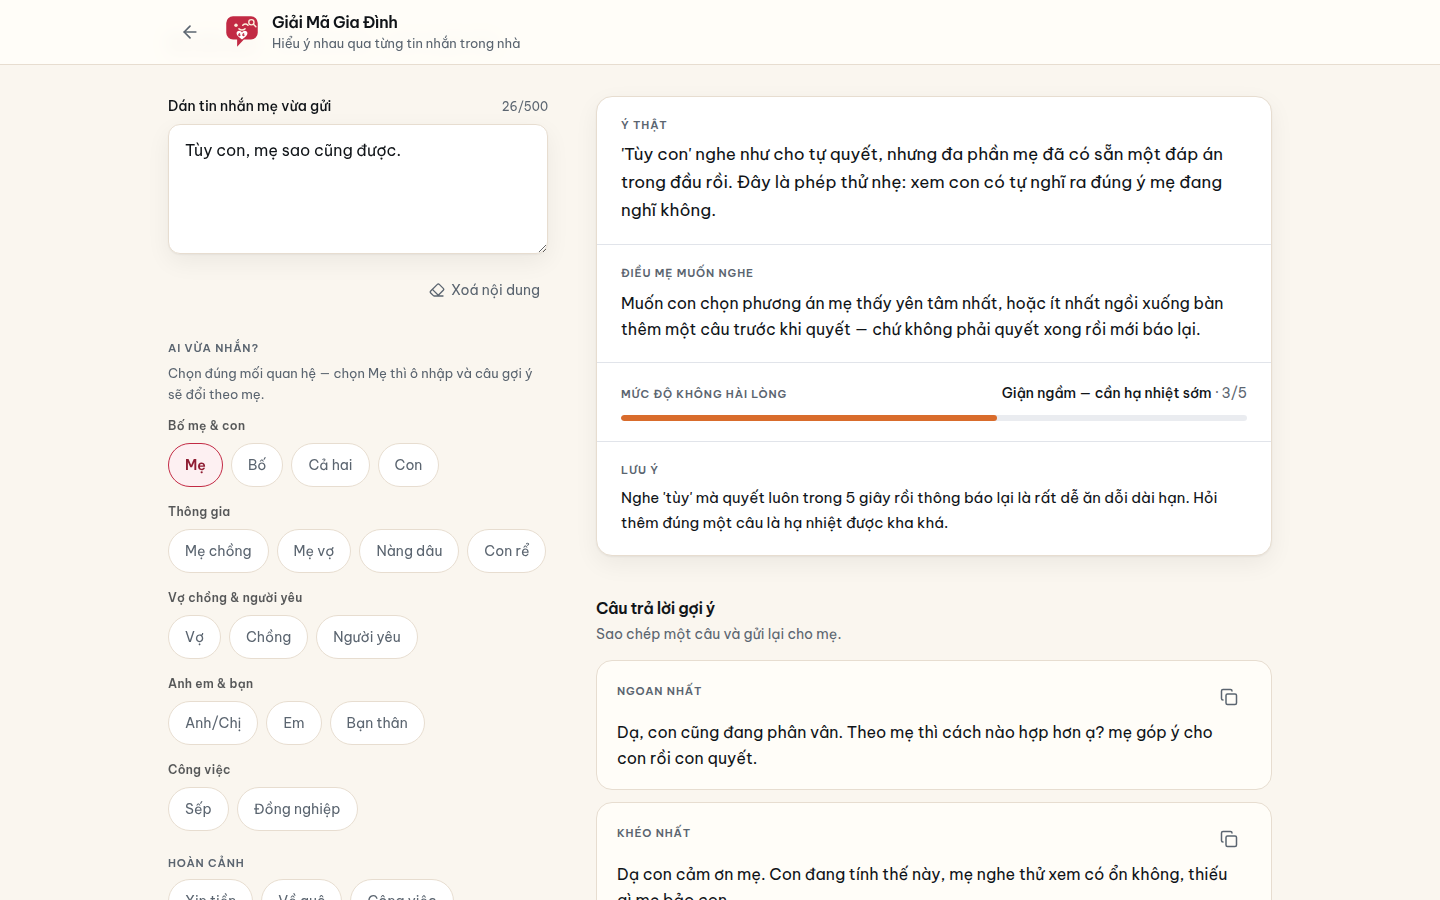
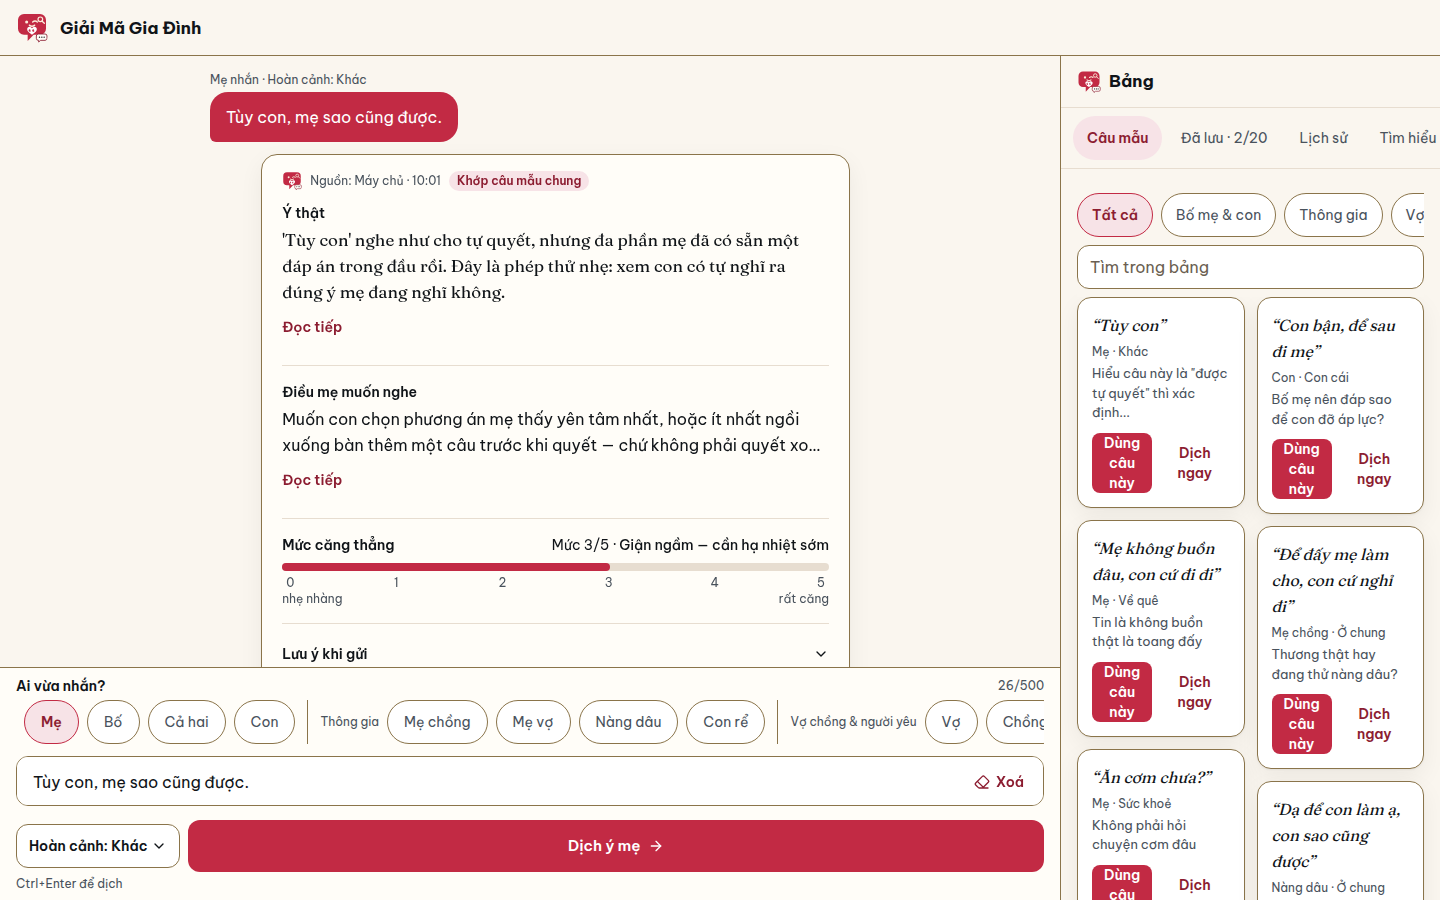
docs: screenshot pack recaptured on redesign-v2 live build
- 3 catalog shots + 4 gallery shots from the live redesign (decode slip
  with provenance label, mother-in-law reading, honest not-read state,
  Board saved/history tabs); R2 studio-catalog/dichbome keys overwritten,
  sha256 verified local == R2 (3/3)
- README Screenshots section replaces the recapture placeholder;
  captions describe only what the frames show

diff --git a/README.md b/README.md
@@ -36,7 +36,33 @@ liệu đi đâu.
 - **No account needed, large touch targets** — readable type and ≥44px buttons, designed so older family members can use it too.
 - **Two run modes** — `http` (default: the UI calls the Next.js route handlers built into this repo) or fully offline in the browser, where the same rule-based engine runs locally with zero backend. If the HTTP call fails, the UI automatically falls back to the offline engine and tells the user.
 
-> 📸 Screenshot pack sẽ được chụp lại trên bản redesign sau khi deploy.
+## 📸 Screenshots
+
+Ảnh chụp trực tiếp từ bản live https://dichbome.vercel.app (redesign «Sân Khấu Hội Thoại») — mọi ảnh đều là app đang chạy thật với kết quả giải mã thật, không phải mockup.
+
+![Sân khấu hội thoại trên mobile: bong bóng câu gốc và phiếu giải mã có nhãn nguồn “Máy chủ”, ý thật, điều mẹ muốn nghe và mức căng thẳng 3/5](docs/screenshots/dichbome-mobile.png)
+
+_Phiếu giải mã ngay dưới bong bóng câu gốc: nhãn nguồn cho biết kết quả đến từ máy chủ hay dịch ngay trên máy, kèm ý thật, điều người nhắn muốn nghe và thang căng thẳng 0–5._
+
+![Bản desktop: sân khấu giải mã bên trái, Bảng (câu mẫu, đã lưu, lịch sử) cố định ở cột phải](docs/screenshots/dichbome-desktop.png)
+
+_Desktop: sân khấu ở giữa, cột Bảng bên phải luôn hiện thư viện câu mẫu và các tab Đã lưu / Lịch sử._
+
+![Phiếu giải mã cho câu của mẹ chồng trong hoàn cảnh ở chung, mức căng thẳng 1/5](docs/screenshots/gallery-01-phieu-giai-ma-me-chong.png)
+
+_Đổi người nhắn và hoàn cảnh thì cách đọc cũng đổi: câu “Để đấy mẹ làm cho…” của mẹ chồng ở hoàn cảnh ở chung được đọc là quan tâm là chính, giận chỉ một ít._
+
+![Trạng thái trung thực: app nói thẳng “Câu này app chưa đọc được” khi gặp chuỗi vô nghĩa](docs/screenshots/gallery-02-cau-chua-doc-duoc.png)
+
+_Gặp câu app không nhận ra (ví dụ gõ bừa “asdf qwer zxcv 123”), app nói thẳng là chưa đọc được và gợi ý sửa câu hoặc thử câu mẫu — không bịa bản dịch cho có._
+
+![Bảng — tab Đã lưu với các kết quả đã lưu trên thiết bị](docs/screenshots/gallery-03-bang-da-luu.png)
+
+_Bảng, tab Đã lưu: giữ tối đa 20 kết quả ngay trên thiết bị, mở lại lên sân khấu hoặc xoá từng mục._
+
+![Bảng — tab Lịch sử với các câu vừa dịch gần đây](docs/screenshots/gallery-04-bang-lich-su.png)
+
+_Bảng, tab Lịch sử: các câu đã dịch gần đây kèm người nhắn, hoàn cảnh và mức căng thẳng — chạm vào để xem lại phiếu._
 
 ## 🧭 How it works
 
@@ -178,7 +204,7 @@ Returns `{ examples: [{ message, speaker, context, tease }] }` — the static sa
 │   ├── icons/                     # PWA icons 192/512, maskable 512, apple-touch-icon 180
 │   └── products/brand/            # Official logo/banner SVGs (see BRAND.md)
 ├── docs/
-│   └── screenshots/               # Old-UI production screenshots — no longer shown in this README; pack is recaptured on the redesign after deploy
+│   └── screenshots/               # Production screenshots of the live redesign — shown in the Screenshots section above
 ├── BRAND.md                       # Brand kit: colours, logo, usage rules
 ├── CONTENT.md                     # Content/video shooting script
 ├── EXTRACT.md                     # Original extraction notes from the source monorepo
